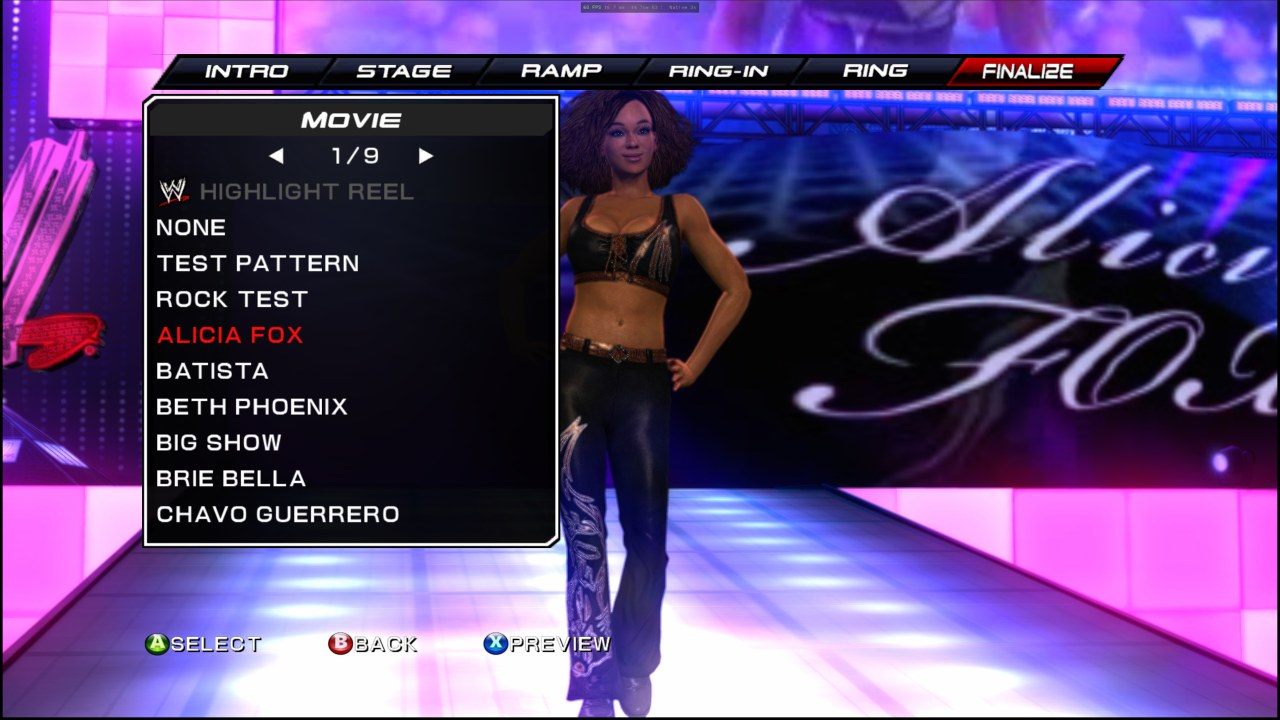
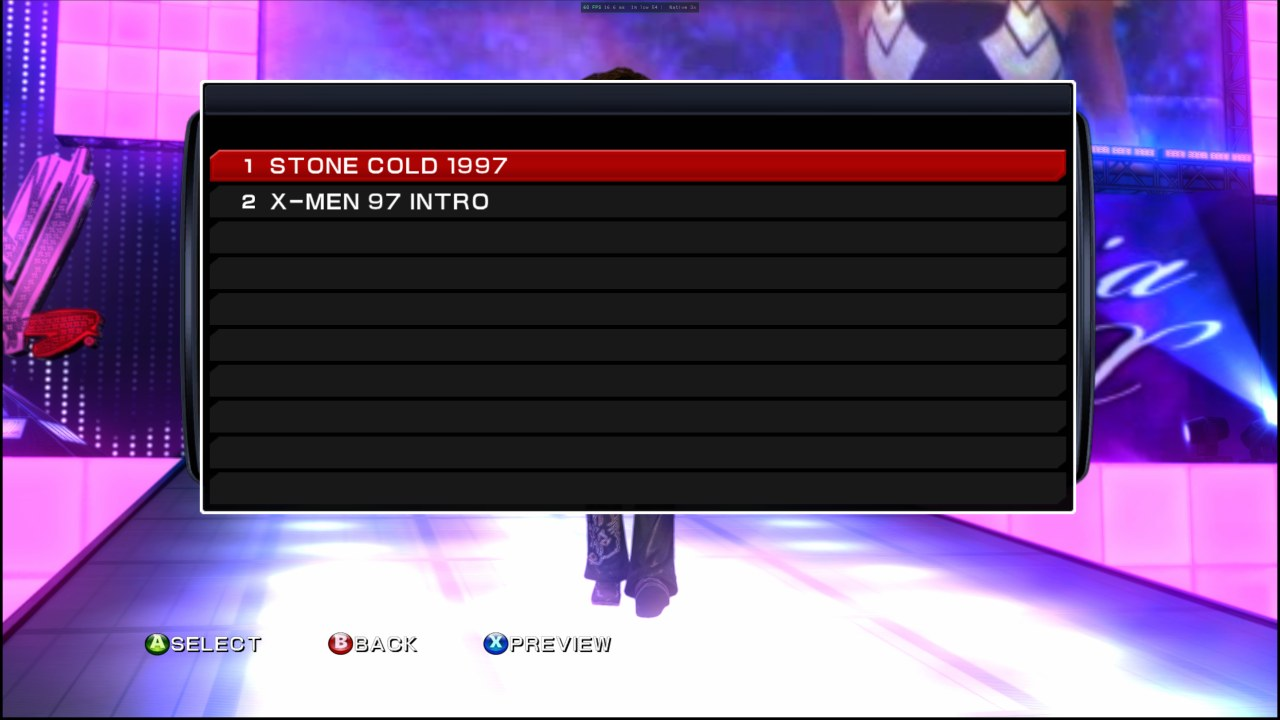
Movies: USER MOVIES menu; movies fill the big screen
- CREATE AN ENTRANCE > FINALIZE > MOVIE: the HIGHLIGHT REEL row (254)
  becomes USER MOVIES and opens its sub-list with the user movies (then
  any saved highlight reels), like MUSIC > USER PLAYLIST. Preview (X),
  pick, save and reload all work; the movie list no longer mixes the
  user movies in after NONE.
- Movie maker: black bars that are part of the video (letterboxed or 4:3)
  are found on frames across the video and cut off, and Fill the screen
  is the default, so the video covers the whole big screen.
- Tests: SVR2011_TEST_MOVIE=<file> plays that movie for every entrance;
  capture_entrance.ps1 -GameDir.

diff --git a/port/src/user_movies.cpp b/port/src/user_movies.cpp
@@ -11,6 +11,7 @@
 
 #include <algorithm>
 #include <cstdint>
+#include <cstdio>
 #include <cstring>
 #include <fstream>
 #include <map>
@@ -31,6 +32,7 @@ namespace {
 
 constexpr int kFirstId = 700, kLastId = 899;
 constexpr int kNoneId = 999;
+constexpr uint32_t kSubListRow = 254;  // the movie list row that opens the sub-list
 constexpr uint32_t kMovieCategory = 0;
 constexpr uint32_t kListItemSize = 24;  // {value, flags, unlock, text[12]}
 
@@ -46,6 +48,10 @@ uint32_t Rd32(uint8_t* base, uint32_t a) {
   return __builtin_bswap32(v);
 }
 int16_t Rd16(uint8_t* base, uint32_t a) { return int16_t(base[a] << 8 | base[a + 1]); }
+void Wr32(uint8_t* base, uint32_t a, uint32_t v) {
+  v = __builtin_bswap32(v);
+  std::memcpy(base + a, &v, 4);
+}
 
 bool Ascii(const std::wstring& s) {
   return std::all_of(s.begin(), s.end(), [](wchar_t c) { return c >= 32 && c < 127; });
@@ -101,18 +107,22 @@ void Refresh() {
   g_ids = std::move(ids);
 }
 
-// The menu label of a movie (its file name without .bik, upper case) as a
-// guest string that lives for the whole run (menu rows keep the pointer).
-uint32_t Label(const std::string& file) {
-  std::string label = std::filesystem::path(file).stem().string();
-  std::transform(label.begin(), label.end(), label.begin(), ::toupper);
-  if (label.size() > 40) label.resize(40);
+// A guest string that lives for the whole run (menu rows keep the pointer).
+uint32_t Text(const std::string& label) {
   if (auto it = g_labels.find(label); it != g_labels.end()) return it->second;
   const uint32_t s = g_memory->SystemHeapAlloc(uint32_t(label.size() + 1));
   if (!s) return 0;
   std::memcpy(g_memory->TranslateVirtual<char*>(s), label.c_str(), label.size() + 1);
   g_labels[label] = s;
   return s;
+}
+
+// The menu label of a movie: its file name without .bik, upper case.
+uint32_t Label(const std::string& file) {
+  std::string label = std::filesystem::path(file).stem().string();
+  std::transform(label.begin(), label.end(), label.begin(), ::toupper);
+  if (label.size() > 40) label.resize(40);
+  return Text(label);
 }
 
 }  // namespace
@@ -131,8 +141,16 @@ void InstallUserMovies(rex::memory::Memory* memory, const std::filesystem::path&
 
 }  // namespace svr2011
 
-// Menu rows from a list table: sub_8287DFD0(list, r4, table, category, base).
-// After the game's MOVIE rows, the user movies go in after NONE.
+// CREATE AN ENTRANCE -> FINALIZE -> MOVIE. Its first row (value 254,
+// HIGHLIGHT REEL) opens a sub-list: the list right after the movie list,
+// which sub_8287CFB0 fills with the 20 highlight reel slots; picking one
+// keeps 254 in the movie list and the pick in the sub-list (like MUSIC ->
+// USER PLAYLIST). That row becomes USER MOVIES and its sub-list holds the
+// user movies, then the saved highlight reels. The entrance then plays the
+// picked id (sub_828B52D8 below).
+
+// The movie list (sub_8287DFD0(list, r4, table, category, base)): the 254
+// row is named USER MOVIES.
 REX_EXTERN(__imp__sub_8287DFD0);
 REX_HOOK_RAW(sub_8287DFD0) {
   const uint32_t list = ctx.r3.u32, table = ctx.r5.u32, category = ctx.r6.u32;
@@ -143,6 +161,26 @@ REX_HOOK_RAW(sub_8287DFD0) {
   }
   __imp__sub_8287DFD0(ctx, base);
   if (!movies) return;
+  const uint32_t count = Rd32(base, list), rows_at = Rd32(base, list + 8);
+  for (uint32_t i = 0; i < count; ++i) {
+    const uint32_t row = rows_at + i * kListItemSize;
+    if (Rd32(base, row) != kSubListRow) continue;
+    std::lock_guard lock(g_mutex);
+    if (const uint32_t s = Text("USER MOVIES")) Wr32(base, row + 12, s);  // {value, flags, unlock, text}
+    break;
+  }
+}
+
+// The sub-list: sub_8287CFB0(reels, list) adds the highlight reel slots
+// (1000 + i, empty ones disabled) and returns how many reels are saved (the
+// 254 row is disabled without any). Here: the user movies first, then the
+// saved reels (empty slots dropped); the count includes the movies.
+REX_EXTERN(__imp__sub_8287CFB0);
+REX_HOOK_RAW(sub_8287CFB0) {
+  const uint32_t list = ctx.r4.u32;
+  __imp__sub_8287CFB0(ctx, base);
+  if (!g_memory) return;
+  const uint32_t reels = ctx.r3.u32;
   std::vector<std::pair<int, uint32_t>> rows;
   {
     std::lock_guard lock(g_mutex);
@@ -151,7 +189,6 @@ REX_HOOK_RAW(sub_8287DFD0) {
       if (const uint32_t s = Label(file)) rows.emplace_back(id, s);
     }
   }
-  if (rows.empty()) return;
   const auto saved = ctx;
   for (const auto& [id, label] : rows) {  // sub_828829D8(list, value, text, 0, 0, unlock)
     ctx.r3.u64 = list;
@@ -163,21 +200,19 @@ REX_HOOK_RAW(sub_8287DFD0) {
     sub_828829D8(ctx, base);
   }
   ctx = saved;
-  // Move them up after the NONE row: the list is {count, capacity, rows}.
+  // {count, capacity, rows}: [movies][saved reels].
   const uint32_t count = Rd32(base, list), rows_at = Rd32(base, list + 8);
-  size_t n = rows.size(), none = 0;
-  for (uint32_t i = 0; i < count; ++i) {
-    if (Rd32(base, rows_at + i * kListItemSize) == uint32_t(kNoneId)) {
-      none = i;
-      break;
-    }
+  const size_t n = std::min<size_t>(rows.size(), count);
+  std::vector<uint8_t> out;
+  const uint8_t* all = base + rows_at;
+  out.insert(out.end(), all + (count - n) * kListItemSize, all + count * kListItemSize);
+  for (uint32_t i = 0; i < count - n; ++i) {
+    const uint8_t* row = all + i * kListItemSize;
+    if (Rd32(base, rows_at + i * kListItemSize + 4) == 0) out.insert(out.end(), row, row + kListItemSize);
   }
-  if (count < n || none + 1 >= count - n) return;
-  uint8_t* first = base + rows_at + (none + 1) * kListItemSize;
-  uint8_t* added = base + rows_at + (count - n) * kListItemSize;
-  std::vector<uint8_t> tmp(added, added + n * kListItemSize);
-  std::memmove(first + n * kListItemSize, first, added - first);
-  std::memcpy(first, tmp.data(), tmp.size());
+  std::memcpy(base + rows_at, out.data(), out.size());
+  Wr32(base, list, uint32_t(out.size() / kListItemSize));
+  ctx.r3.u64 = reels + uint32_t(n);
 }
 
 // The path of entrance movie `id`: sub_828B52D8(id) -> (r3) the path.
@@ -185,6 +220,23 @@ REX_EXTERN(__imp__sub_828B52D8);
 REX_HOOK_RAW(sub_828B52D8) {
   const int id = ctx.r3.s32;
   __imp__sub_828B52D8(ctx, base);
+  // Tests: SVR2011_TEST_MOVIE=<file in the movies folder> plays it for every
+  // entrance (e.g. a test pattern, to see what the titantron shows).
+  static const std::string test_movie = [] {
+    char* v = nullptr;
+    size_t n = 0;
+    std::string s;
+    if (_dupenv_s(&v, &n, "SVR2011_TEST_MOVIE") == 0 && v) {
+      s = v;
+      free(v);
+    }
+    return s;
+  }();
+  if (!test_movie.empty() && g_memory) {
+    const std::string path = "umovie:\\" + test_movie;
+    std::memcpy(base + ctx.r3.u32, path.c_str(), path.size() + 1);
+    return;
+  }
   if (id < kFirstId || id > kLastId || !g_memory) return;
   std::string file;
   {

diff --git a/port/launcher/movie_maker.c b/port/launcher/movie_maker.c
@@ -193,6 +193,7 @@ typedef struct {
     int have_next, eof;
     LONGLONG next_ts;
     IMFSample *next;
+    int cx, cy, cw, ch;        /* the picture without black borders (content_find) */
 } Pic;
 
 static int is_image(const WCHAR *path)
@@ -307,11 +308,15 @@ static void pic_close(Pic *p)
     memset(p, 0, sizeof *p);
 }
 
+static void content_find(Pic *p);
+
 static int pic_open(Pic *p, const WCHAR *path, WCHAR *err, size_t errn)
 {
     memset(p, 0, sizeof *p);
     if (!path || !path[0]) return 1;            /* black */
-    return is_image(path) ? image_open(p, path, err, errn) : video_open(p, path, err, errn);
+    if (!(is_image(path) ? image_open(p, path, err, errn) : video_open(p, path, err, errn))) return 0;
+    content_find(p);
+    return 1;
 }
 
 static void sample_copy(Pic *p, IMFSample *s)
@@ -373,6 +378,76 @@ static void pic_seek(Pic *p, LONGLONG t, int loop)
     }
 }
 
+/* Grows box (x0, y0, x1, y1) to the parts of the current picture that are
+ * not black: rows and columns where enough pixels are brighter than dark
+ * grey (so noise or a small logo in a black bar doesn't count). */
+static void content_add(const Pic *p, int *x0, int *y0, int *x1, int *y1)
+{
+    int x, y, n;
+    const int step = 2;
+    for (y = 0; y < p->h; y += step) {
+        for (x = 0, n = 0; x < p->w; x += step) {
+            const uint8_t *s = p->bgra + ((size_t)y * p->w + x) * 4;
+            if (s[0] + s[1] + s[2] > 3 * 32) n++;
+        }
+        if (n * step * 50 > p->w) { if (y < *y0) *y0 = y; if (y + step > *y1) *y1 = y + step; }
+    }
+    for (x = 0; x < p->w; x += step) {
+        for (y = 0, n = 0; y < p->h; y += step) {
+            const uint8_t *s = p->bgra + ((size_t)y * p->w + x) * 4;
+            if (s[0] + s[1] + s[2] > 3 * 32) n++;
+        }
+        if (n * step * 50 > p->h) { if (x < *x0) *x0 = x; if (x + step > *x1) *x1 = x + step; }
+    }
+}
+
+/* Black borders that are part of the picture (letterboxed or pillarboxed
+ * videos): found on frames across the whole video, then cut off - so
+ * "Fill" fills the screen with the picture, not with its black bars. */
+static void content_find(Pic *p)
+{
+    int x0 = p->w, y0 = p->h, x1 = 0, y1 = 0, k;
+    p->cx = 0; p->cy = 0; p->cw = p->w; p->ch = p->h;
+    if (p->kind == 1) {
+        content_add(p, &x0, &y0, &x1, &y1);
+    } else if (p->kind == 2 && p->duration > 0) {
+        for (k = 1; k <= 8; k++) {
+            PROPVARIANT pv;
+            DWORD idx, flags = 0;
+            LONGLONG ts = 0;
+            IMFSample *s = NULL;
+            PropVariantInit(&pv);
+            pv.vt = VT_I8;
+            pv.hVal.QuadPart = p->duration * k / 10;
+            if (FAILED(IMFSourceReader_SetCurrentPosition(p->rd, &GUID_NULL, &pv))) break;
+            if (FAILED(IMFSourceReader_ReadSample(p->rd, (DWORD)MF_SOURCE_READER_FIRST_VIDEO_STREAM, 0, &idx, &flags, &ts, &s))
+                    || !s) { if (s) IMFSample_Release(s); continue; }
+            sample_copy(p, s);
+            IMFSample_Release(s);
+            content_add(p, &x0, &y0, &x1, &y1);
+        }
+        {   /* back to the start */
+            PROPVARIANT pv;
+            PropVariantInit(&pv);
+            pv.vt = VT_I8;
+            pv.hVal.QuadPart = 0;
+            IMFSourceReader_SetCurrentPosition(p->rd, &GUID_NULL, &pv);
+            memset(p->bgra, 0, (size_t)p->w * p->h * 4);
+        }
+    } else {
+        return;
+    }
+    if (x1 > p->w) x1 = p->w;
+    if (y1 > p->h) y1 = p->h;
+    /* Only clear borders: 1.5% or more of a side, and a real picture left. */
+    if (x1 - x0 < p->w / 4 || y1 - y0 < p->h / 4) return;
+    if (x0 * 1000 < p->w * 15) x0 = 0;
+    if ((p->w - x1) * 1000 < p->w * 15) x1 = p->w;
+    if (y0 * 1000 < p->h * 15) y0 = 0;
+    if ((p->h - y1) * 1000 < p->h * 15) y1 = p->h;
+    p->cx = x0; p->cy = y0; p->cw = x1 - x0; p->ch = y1 - y0;
+}
+
 /* Box-filtered copy of source rectangle (sx, sy, sw, sh) of `p` into
  * destination rectangle (dx, dy, dw, dh) of a BGRA picture `dst` (dst_w wide). */
 static void pic_draw(const Pic *p, double sx, double sy, double sw, double sh,
@@ -413,11 +488,11 @@ static void draw_top(const Pic *p, int fit, uint8_t *frame)
     double aspect, sx = 0, sy = 0, sw, sh;
     int dx = 0, dy = 0, dw = MOVIE_W, dh = TOP_H;
     if (!p->bgra) return;
-    sw = p->w; sh = p->h;
-    aspect = p->w * p->par / p->h;
+    sx = p->cx; sy = p->cy; sw = p->cw; sh = p->ch;
+    aspect = sw * p->par / sh;
     if (fit == MOVIE_FILL) {
-        if (aspect > screen) { sw = p->h * screen / p->par; sx = (p->w - sw) / 2; }
-        else                 { sh = p->w * p->par / screen; sy = (p->h - sh) / 2; }
+        if (aspect > screen) { sw = sh * screen / p->par; sx = p->cx + (p->cw - sw) / 2; }
+        else                 { sh = sw * p->par / screen; sy = p->cy + (p->ch - sh) / 2; }
     } else if (fit == MOVIE_FIT) {
         if (aspect > screen) { dh = (int)(TOP_H * screen / aspect + 0.5); dy = (TOP_H - dh) / 2; }
         else                 { dw = (int)(MOVIE_W * aspect / screen + 0.5); dx = (MOVIE_W - dw) / 2; }
@@ -431,10 +506,10 @@ static void draw_bottom(const Pic *p, uint8_t *frame)
     const double strip = (double)MOVIE_W / BOT_H;
     double aspect, sx = 0, sy = 0, sw, sh;
     if (!p->bgra) return;
-    sw = p->w; sh = p->h;
-    aspect = p->w * p->par / p->h;
-    if (aspect > strip) { sw = p->h * strip / p->par; sx = (p->w - sw) / 2; }
-    else                { sh = p->w * p->par / strip; sy = (p->h - sh) / 2; }
+    sx = p->cx; sy = p->cy; sw = p->cw; sh = p->ch;
+    aspect = sw * p->par / sh;
+    if (aspect > strip) { sw = sh * strip / p->par; sx = p->cx + (p->cw - sw) / 2; }
+    else                { sh = sw * p->par / strip; sy = p->cy + (p->ch - sh) / 2; }
     pic_draw(p, sx, sy, sw, sh, frame, MOVIE_W, 0, TOP_H, MOVIE_W, BOT_H);
 }
 

diff --git a/port/launcher/svr2011_launcher.c b/port/launcher/svr2011_launcher.c
@@ -3445,10 +3445,12 @@ static void mv_setup(void)
     add(TAB_MOVIES, L"Button", L"Browse\x2026", BS_PUSHBUTTON | WS_TABSTOP, X0 + 344, 129, 102, 26, ID_MV_BOTTOM_BROWSE);
     add(TAB_MOVIES, L"Button", L"None (black)", BS_PUSHBUTTON | WS_TABSTOP, X0 + 454, 129, 106, 26, ID_MV_BOTTOM_NONE);
     add(TAB_MOVIES, L"Static", L"Big screen", SS_LEFT, X0, 168, 100, 20, 0);
-    h = add(TAB_MOVIES, L"Button", L"Whole picture", BS_AUTORADIOBUTTON | WS_GROUP | WS_TABSTOP, X0 + 110, 164, 140, 24, ID_MV_FIT);
+    /* Fill by default: the video covers the whole big screen (black bars in
+       the video itself are cut off first - movie_maker.c content_find). */
+    h = add(TAB_MOVIES, L"Button", L"Fill the screen", BS_AUTORADIOBUTTON | WS_GROUP | WS_TABSTOP, X0 + 110, 164, 140, 24, ID_MV_FILL);
     SendMessageW(h, BM_SETCHECK, BST_CHECKED, 0);
-    add(TAB_MOVIES, L"Button", L"Fill (cut edges)", BS_AUTORADIOBUTTON, X0 + 256, 164, 150, 24, ID_MV_FILL);
-    add(TAB_MOVIES, L"Button", L"Stretch", BS_AUTORADIOBUTTON, X0 + 412, 164, 100, 24, ID_MV_STRETCH);
+    add(TAB_MOVIES, L"Button", L"Whole picture (bars)", BS_AUTORADIOBUTTON, X0 + 256, 164, 160, 24, ID_MV_FIT);
+    add(TAB_MOVIES, L"Button", L"Stretch", BS_AUTORADIOBUTTON, X0 + 422, 164, 100, 24, ID_MV_STRETCH);
     add(TAB_MOVIES, L"Static", L"Length", SS_LEFT, X0, 202, 100, 20, 0);
     h = add(TAB_MOVIES, L"ComboBox", L"", CBS_DROPDOWNLIST | WS_VSCROLL | WS_TABSTOP | WS_GROUP, X0 + 110, 198, 190, 200, ID_MV_LENGTH);
     SendMessageW(h, CB_ADDSTRING, 0, (LPARAM)L"Whole video (up to 3 min)");

diff --git a/README.md b/README.md
@@ -211,15 +211,15 @@ The launcher's **Movies** tab turns any video Windows can play (`.mp4`, `.mov`, 
 
 1. Under **Video**, choose your video. A frame from it shows in the preview.
 2. Under **Bottom strip**, choose a picture or a video for the stage and ramp screens, or click **None (black)**.
-3. Choose how the video fits the screen: **Whole picture** (black bars if needed), **Fill** (cuts off the edges) or **Stretch**.
+3. Choose how the video fits the big screen: **Fill the screen** (the default: the video covers the whole screen, cutting off a little at the edges if its shape differs), **Whole picture** (black bars if needed) or **Stretch**. Black bars that are already in the video (letterboxed or 4:3 videos) are found and cut off first.
 4. Pick a **Length**, give the movie a **Name**, and click **Make movie**. A 30-second movie takes a few seconds to make.
-5. In the game: *Create An Entrance → Finalize → **Movie***. Your movies are listed right after **NONE**, by name.
+5. In the game: *Create An Entrance → Finalize → **Movie** → **USER MOVIES***, like *Music → USER PLAYLIST*. It lists your movies by name (and any saved highlight reels after them). **X** previews one, **A** picks it.
 
 The movies are saved in the **`Custom Movies`** folder in the game folder, in the same format and layout as the game's own titantron movies. Don't rename a movie that an entrance uses (`Custom Movies\ids.txt` remembers which number each one has).
 
 <table>
   <tr>
-    <td width="50%"><img src="docs/screenshots/user-movies-list.jpg" alt="Movie list with your movies"><br><sub>Your movies in the <b>Movie</b> list, after <b>NONE</b></sub></td>
+    <td width="50%"><img src="docs/screenshots/user-movies-list.jpg" alt="USER MOVIES list"><br><sub><b>Movie → USER MOVIES</b> lists your movies</sub></td>
     <td width="50%"><img src="docs/screenshots/custom-movie-entrance.jpg" alt="Custom movie in an entrance"><br><sub>…and on the big screen during the entrance</sub></td>
   </tr>
 </table>
